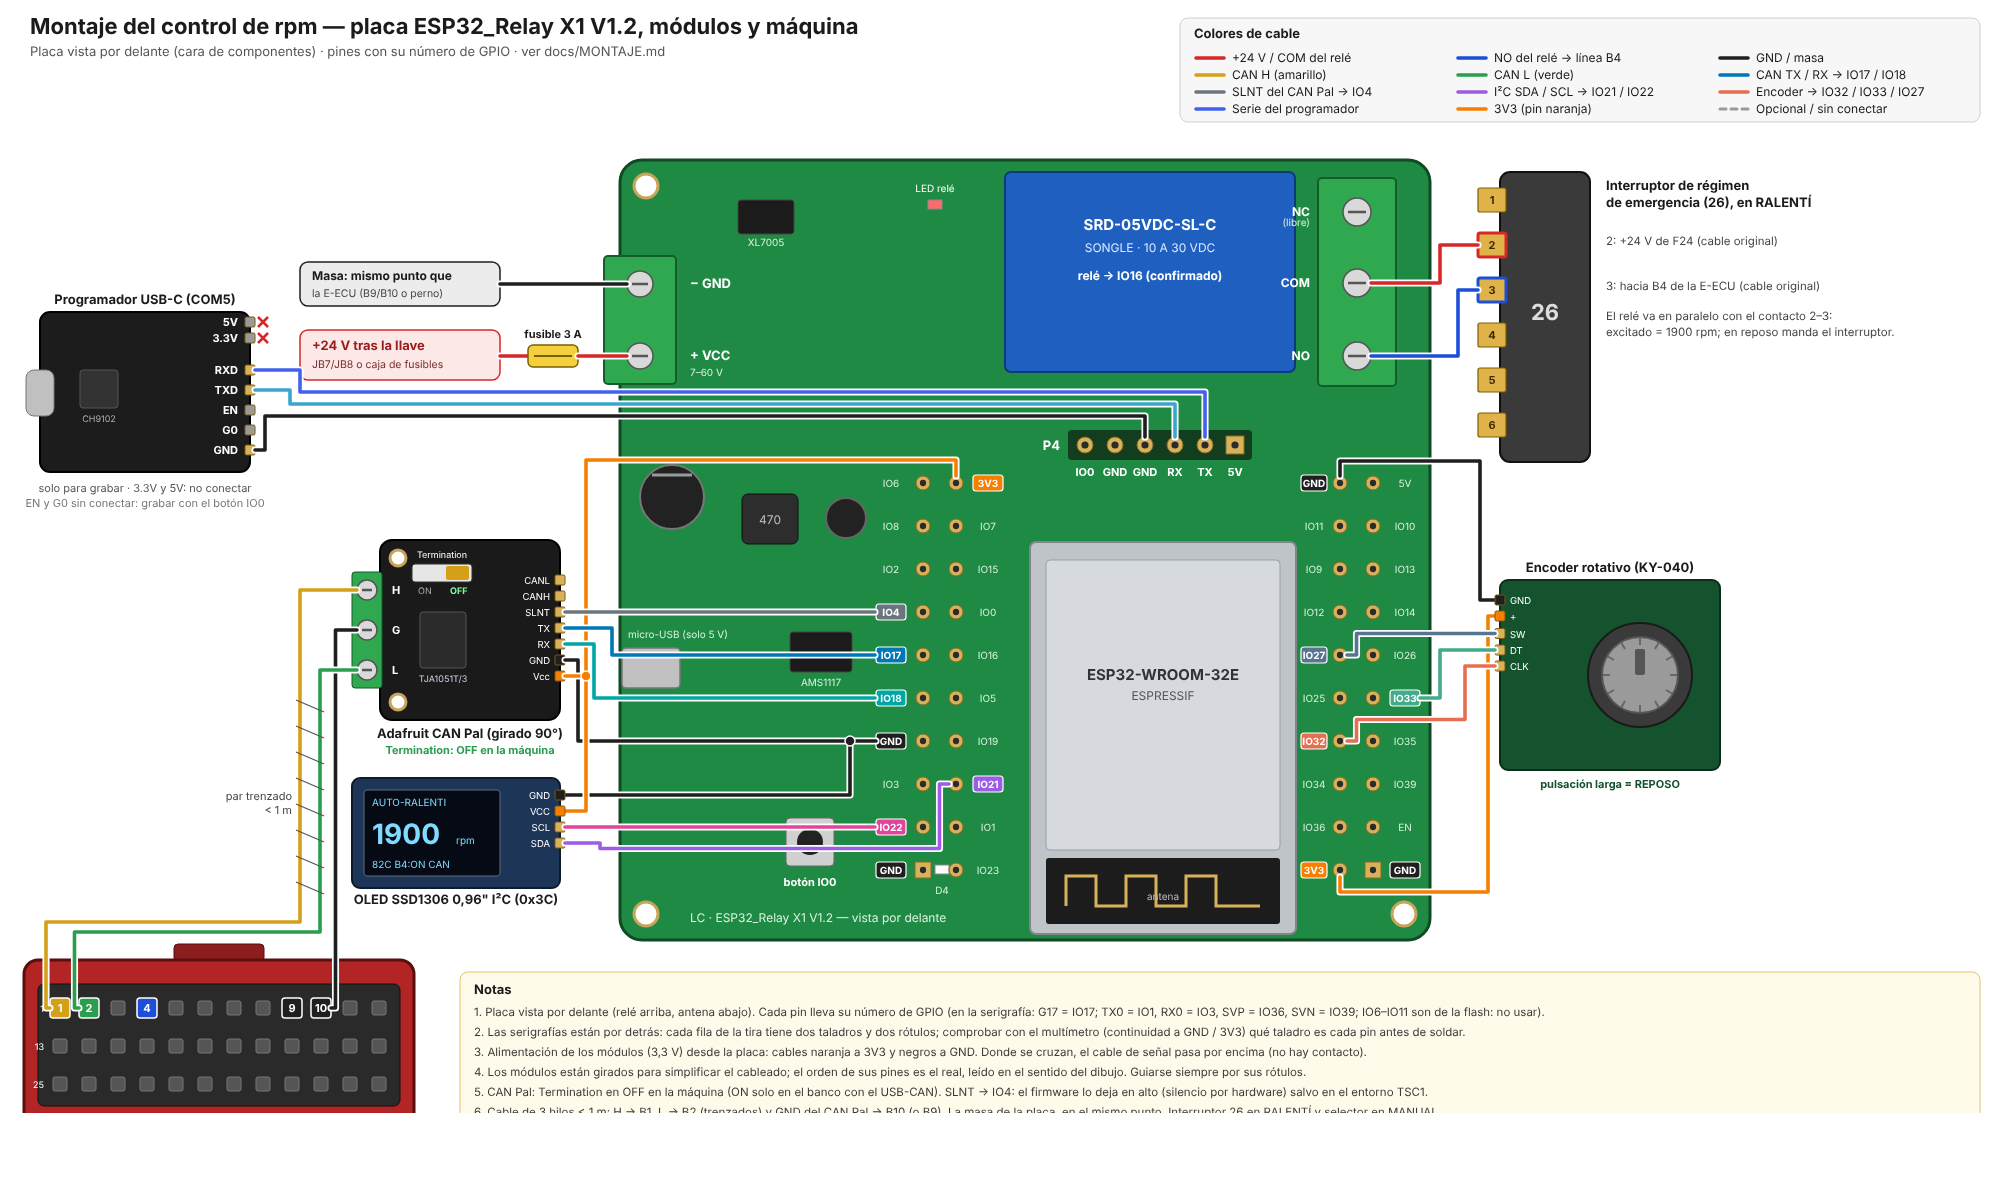
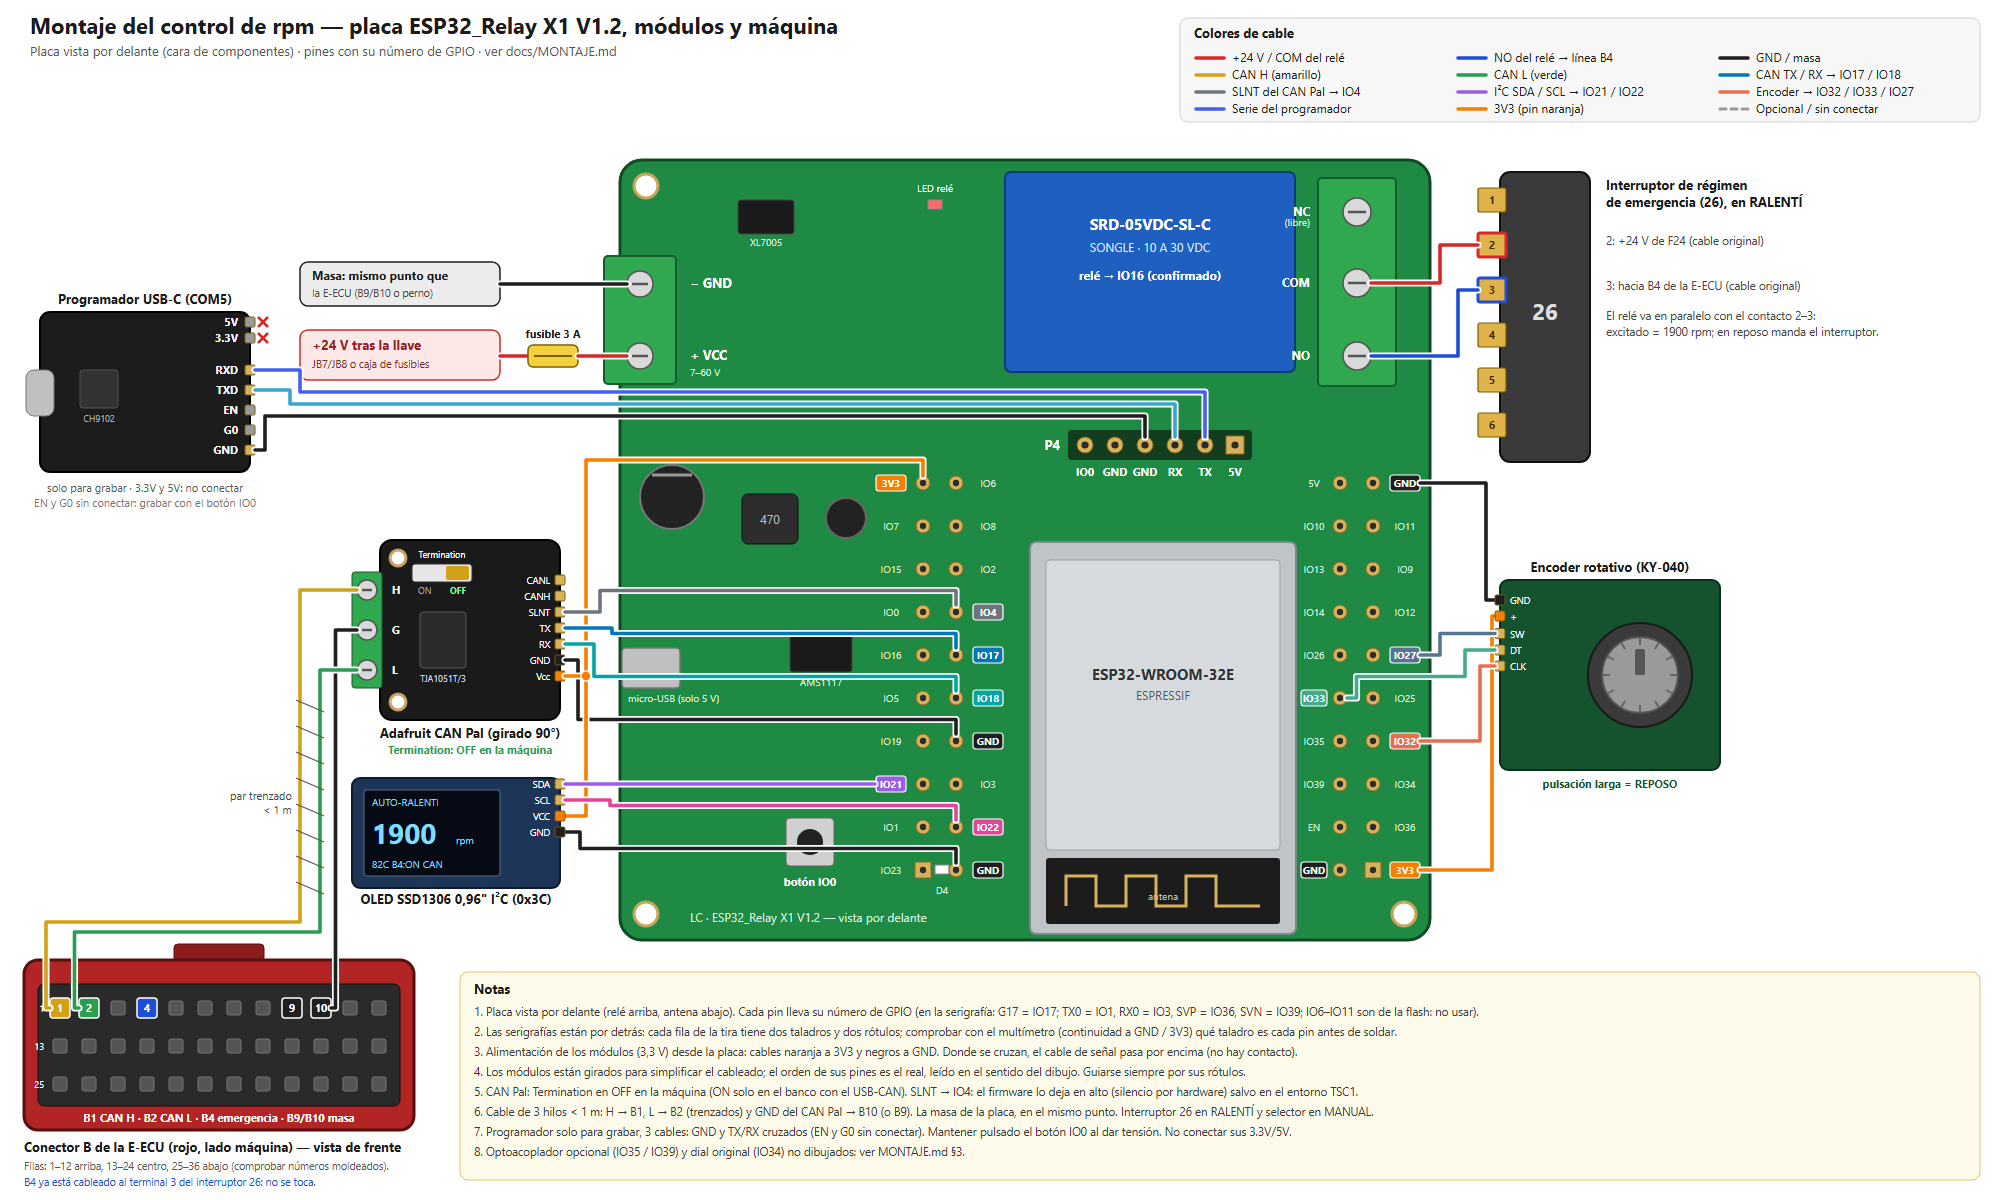
Diagrama de montaje: filas interior y exterior de las tiras corregidas
En las dos tiras de pines de la ESP32_Relay estaban intercambiadas la fila interior y la exterior (confirmado con la placa). Cableado del diagrama rehecho.

diff --git a/tools/gen_esquema_montaje.py b/tools/gen_esquema_montaje.py
@@ -116,7 +116,7 @@ a('<path d="M 652 575 L 692 575" stroke="#999" stroke-width="3"/>')
 a('<rect x="790" y="732" width="62" height="40" rx="3" fill="#1b1b1b" stroke="#444"/>')
 text(821, 786, "AMS1117", size=10, fill="#d9f2df", anchor="middle")
 a('<rect x="622" y="748" width="58" height="40" rx="4" fill="#c0c0c0" stroke="#777" stroke-width="1.5"/>')
-text(628, 738, "micro-USB (solo 5 V)", size=10, fill="#d9f2df")
+text(628, 802, "micro-USB (solo 5 V)", size=10, fill="#d9f2df")
 a('<rect x="786" y="918" width="48" height="48" rx="4" fill="#d0d0d0" stroke="#666"/>')
 a('<circle cx="810" cy="942" r="13" fill="#222"/>')
 text(810, 986, "botón IO0", size=11, fill="#ffffff", anchor="middle", weight="bold")
@@ -164,16 +164,16 @@ text(1163, 1000, "antena", size=10, fill="#bbbbbb", anchor="middle")
 # Tiras de pines (2×10). Rango k: 0 arriba (junto a P4), 9 abajo (junto a la antena).
 RK = [583 + 43 * k for k in range(10)]
 # Tira izquierda (serigrafía "superior"): exterior = fila CLK…, interior = fila 3V3…
-IZQ_EXT = ["IO6", "IO8", "IO2", "IO4", "IO17", "IO18", "GND", "IO3", "IO22", "GND"]
-IZQ_INT = ["3V3", "IO7", "IO15", "IO0", "IO16", "IO5", "IO19", "IO21", "IO1", "IO23"]
+IZQ_EXT = ["3V3", "IO7", "IO15", "IO0", "IO16", "IO5", "IO19", "IO21", "IO1", "IO23"]
+IZQ_INT = ["IO6", "IO8", "IO2", "IO4", "IO17", "IO18", "GND", "IO3", "IO22", "GND"]
 # Tira derecha (serigrafía "inferior"): interior = fila GND…, exterior = fila 5V…
-DER_INT = ["GND", "IO11", "IO9", "IO12", "IO27", "IO25", "IO32", "IO34", "IO36", "3V3"]
-DER_EXT = ["5V", "IO10", "IO13", "IO14", "IO26", "IO33", "IO35", "IO39", "EN", "GND"]
+DER_INT = ["5V", "IO10", "IO13", "IO14", "IO26", "IO33", "IO35", "IO39", "EN", "GND"]
+DER_EXT = ["GND", "IO11", "IO9", "IO12", "IO27", "IO25", "IO32", "IO34", "IO36", "3V3"]
 XI_E, XI_I, XD_I, XD_E = 923, 956, 1340, 1373
-hl_ie = {3: C["slnt"], 4: C["tx"], 5: C["rx"], 6: C["gnd"], 8: C["scl"], 9: C["gnd"]}
-hl_ii = {0: C["3v3"], 7: C["sda"]}
-hl_di = {0: C["gnd"], 4: C["sw"], 6: C["clk"], 9: C["3v3"]}
-hl_de = {5: C["dt"], 9: C["gnd"]}
+hl_ie = {0: C["3v3"], 7: C["sda"]}
+hl_ii = {3: C["slnt"], 4: C["tx"], 5: C["rx"], 6: C["gnd"], 8: C["scl"], 9: C["gnd"]}
+hl_di = {5: C["dt"], 9: C["gnd"]}
+hl_de = {0: C["gnd"], 4: C["sw"], 6: C["clk"], 9: C["3v3"]}
 for k, y in enumerate(RK):
     for x in (XI_E, XI_I, XD_I, XD_E):
         hole(x, y, square=(k == 9 and x in (XI_E, XD_E)))
@@ -248,20 +248,19 @@ text(470, 854, "Termination: OFF en la máquina", size=11, fill="#2a9d4f", ancho
 def junction(x, y, color):
     a(f'<circle cx="{x}" cy="{y}" r="5" fill="{color}" stroke="#fff" stroke-width="1.5"/>')
 # CAN Pal y OLED: GND → GND (IO… fila exterior, rango 6); Vcc → 3V3 (fila interior, rango 0)
-wire([(565, 760), (578, 760), (578, 841), (876, 841)], C["gnd"])
-wire([(565, 895), (850, 895), (850, 841)], C["gnd"])
-junction(850, 841, C["gnd"])
-wire([(565, 776), (586, 776), (586, 560), (956, 560), (956, 576)], C["3v3"])
-wire([(565, 911), (586, 911), (586, 776)], C["3v3"])
+wire([(565, 760), (578, 760), (578, 819.5), (956, 819.5), (956, 834)], C["gnd"])          # CAN GND → GND (int. rango 6)
+wire([(565, 932), (580, 932), (580, 948.5), (956, 948.5), (956, 963)], C["gnd"])        # OLED GND → GND (int. rango 9)
+wire([(565, 776), (586, 776), (586, 560), (923, 560), (923, 576)], C["3v3"])            # Vcc → 3V3 (ext. rango 0)
+wire([(565, 916), (586, 916), (586, 776)], C["3v3"])
 junction(586, 776, C["3v3"])
 # Encoder: GND → GND (tira derecha, rango 0); + → 3V3 (tira derecha, rango 9)
-wire([(1495, 700), (1480, 700), (1480, 561), (1340, 561), (1340, 576)], C["gnd"])
-wire([(1495, 716), (1488, 716), (1488, 992), (1340, 992), (1340, 977)], C["3v3"])
+wire([(1495, 700), (1486, 700), (1486, 583), (1420, 583)], C["gnd"])
+wire([(1495, 716), (1492, 716), (1492, 970), (1420, 970)], C["3v3"])
 
 # CAN Pal → tira izquierda
-wire([(565, 712), (875, 712)], C["slnt"])                                   # SLNT → IO4
-wire([(565, 728), (612, 728), (612, 755), (875, 755)], C["tx"])            # TX → IO17
-wire([(565, 744), (594, 744), (594, 798), (875, 798)], C["rx"])            # RX → IO18
+wire([(565, 712), (600, 712), (600, 690.5), (956, 690.5), (956, 705)], C["slnt"])  # SLNT → IO4
+wire([(565, 728), (612, 728), (612, 733.5), (956, 733.5), (956, 748)], C["tx"])     # TX → IO17
+wire([(565, 744), (594, 744), (594, 776.5), (956, 776.5), (956, 791)], C["rx"])     # RX → IO18
 
 # ================================================================ OLED (girada 90°: pines a la derecha)
 a('<rect x="352" y="878" width="208" height="110" rx="8" fill="#1d3557" stroke="#0d1b2a" stroke-width="2"/>')
@@ -270,14 +269,14 @@ text(372, 906, "AUTO-RALENTI", size=10, fill="#7fdcff")
 text(372, 944, "1900", size=28, fill="#7fdcff", weight="bold")
 text(456, 944, "rpm", size=10, fill="#7fdcff")
 text(372, 968, "82C B4:ON CAN", size=10, fill="#7fdcff")
-oled = [("GND", 895), ("VCC", 911), ("SCL", 927), ("SDA", 943)]
+oled = [("SDA", 884), ("SCL", 900), ("VCC", 916), ("GND", 932)]
 for n, y in oled:
     col = {"GND": "#1f1f1f", "VCC": C["3v3"]}.get(n, "#d8b25a")
     pad(560, y, col)
     text(550, y + 4, n, size=9.5, fill="#ffffff", anchor="end")
 text(456, 1004, "OLED SSD1306 0,96\" I²C (0x3C)", size=13, anchor="middle", weight="bold")
-wire([(565, 927), (875, 927)], C["scl"])                                    # SCL → IO22
-wire([(565, 943), (600, 943), (600, 948.5), (939.5, 948.5), (939.5, 884), (949, 884)], C["sda"])  # SDA → IO21
+wire([(565, 884), (875, 884)], C["sda"])                                              # SDA → IO21 (ext. rango 7)
+wire([(565, 900), (610, 900), (610, 905.5), (956, 905.5), (956, 920)], C["scl"])        # SCL → IO22 (int. rango 8)
 
 # ================================================================ conector B de la E-ECU (abajo a la izquierda)
 CBX, CBY = 24, 1060
@@ -347,9 +346,9 @@ for n, y in enc:
     text(1510, y + 4, n, size=9.5, fill="#ffffff")
 text(1610, 672, "Encoder rotativo (KY-040)", size=13, anchor="middle", weight="bold")
 text(1610, 888, "pulsación larga = REPOSO", size=11, fill="#14532d", anchor="middle", weight="bold")
-wire([(1495, 733.5), (1356.5, 733.5), (1356.5, 755), (1347, 755)], C["sw"])            # SW → IO27
-wire([(1495, 750), (1440, 750), (1440, 798), (1420, 798)], C["dt"])                     # DT → IO33
-wire([(1495, 766), (1465, 766), (1465, 819.5), (1356.5, 819.5), (1356.5, 841), (1347, 841)], C["clk"])  # CLK → IO32
+wire([(1495, 733.5), (1440, 733.5), (1440, 755), (1420, 755)], C["sw"])                # SW → IO27 (ext. rango 4)
+wire([(1495, 750), (1465, 750), (1465, 776.5), (1356.5, 776.5), (1356.5, 798), (1347, 798)], C["dt"])  # DT → IO33 (int. rango 5)
+wire([(1495, 766), (1480, 766), (1480, 841), (1420, 841)], C["clk"])                     # CLK → IO32 (ext. rango 6)
 
 # ================================================================ notas
 nx, ny = 460, 1072

diff --git a/CHANGELOG.md b/CHANGELOG.md
@@ -4,6 +4,9 @@ Todos los cambios relevantes del proyecto se documentan aquí. Formato basado en
 
 ## [Unreleased]
 
+### Corregido
+- Diagrama de montaje: en las dos tiras de pines de la placa estaban **intercambiadas la fila interior y la exterior**. Corregido en `tools/gen_esquema_montaje.py` con el cableado rehecho (IO4/IO17/IO18/IO22 y GND en la fila interior de la tira izquierda; IO27/IO32, 3V3 y GND en la exterior de la derecha).
+
 ### Añadido (panel)
 - `tools/panel_esp32.py` + `panel_esp32.html`: panel en el navegador (127.0.0.1:8765) con todas las funciones de la consola serie: modos y relé, ajustes (ralentí, par, consigna TSC1), datos del motor y del bus CAN, log filtrable y descargable, comandos libres y <kbd>Esc</kbd> = Reposo. Abre el puerto en exclusiva y reencuentra el programador si cambia de nombre. Probado con la placa real (2026-10-21). Documentado en `firmware/README.md`.
 
